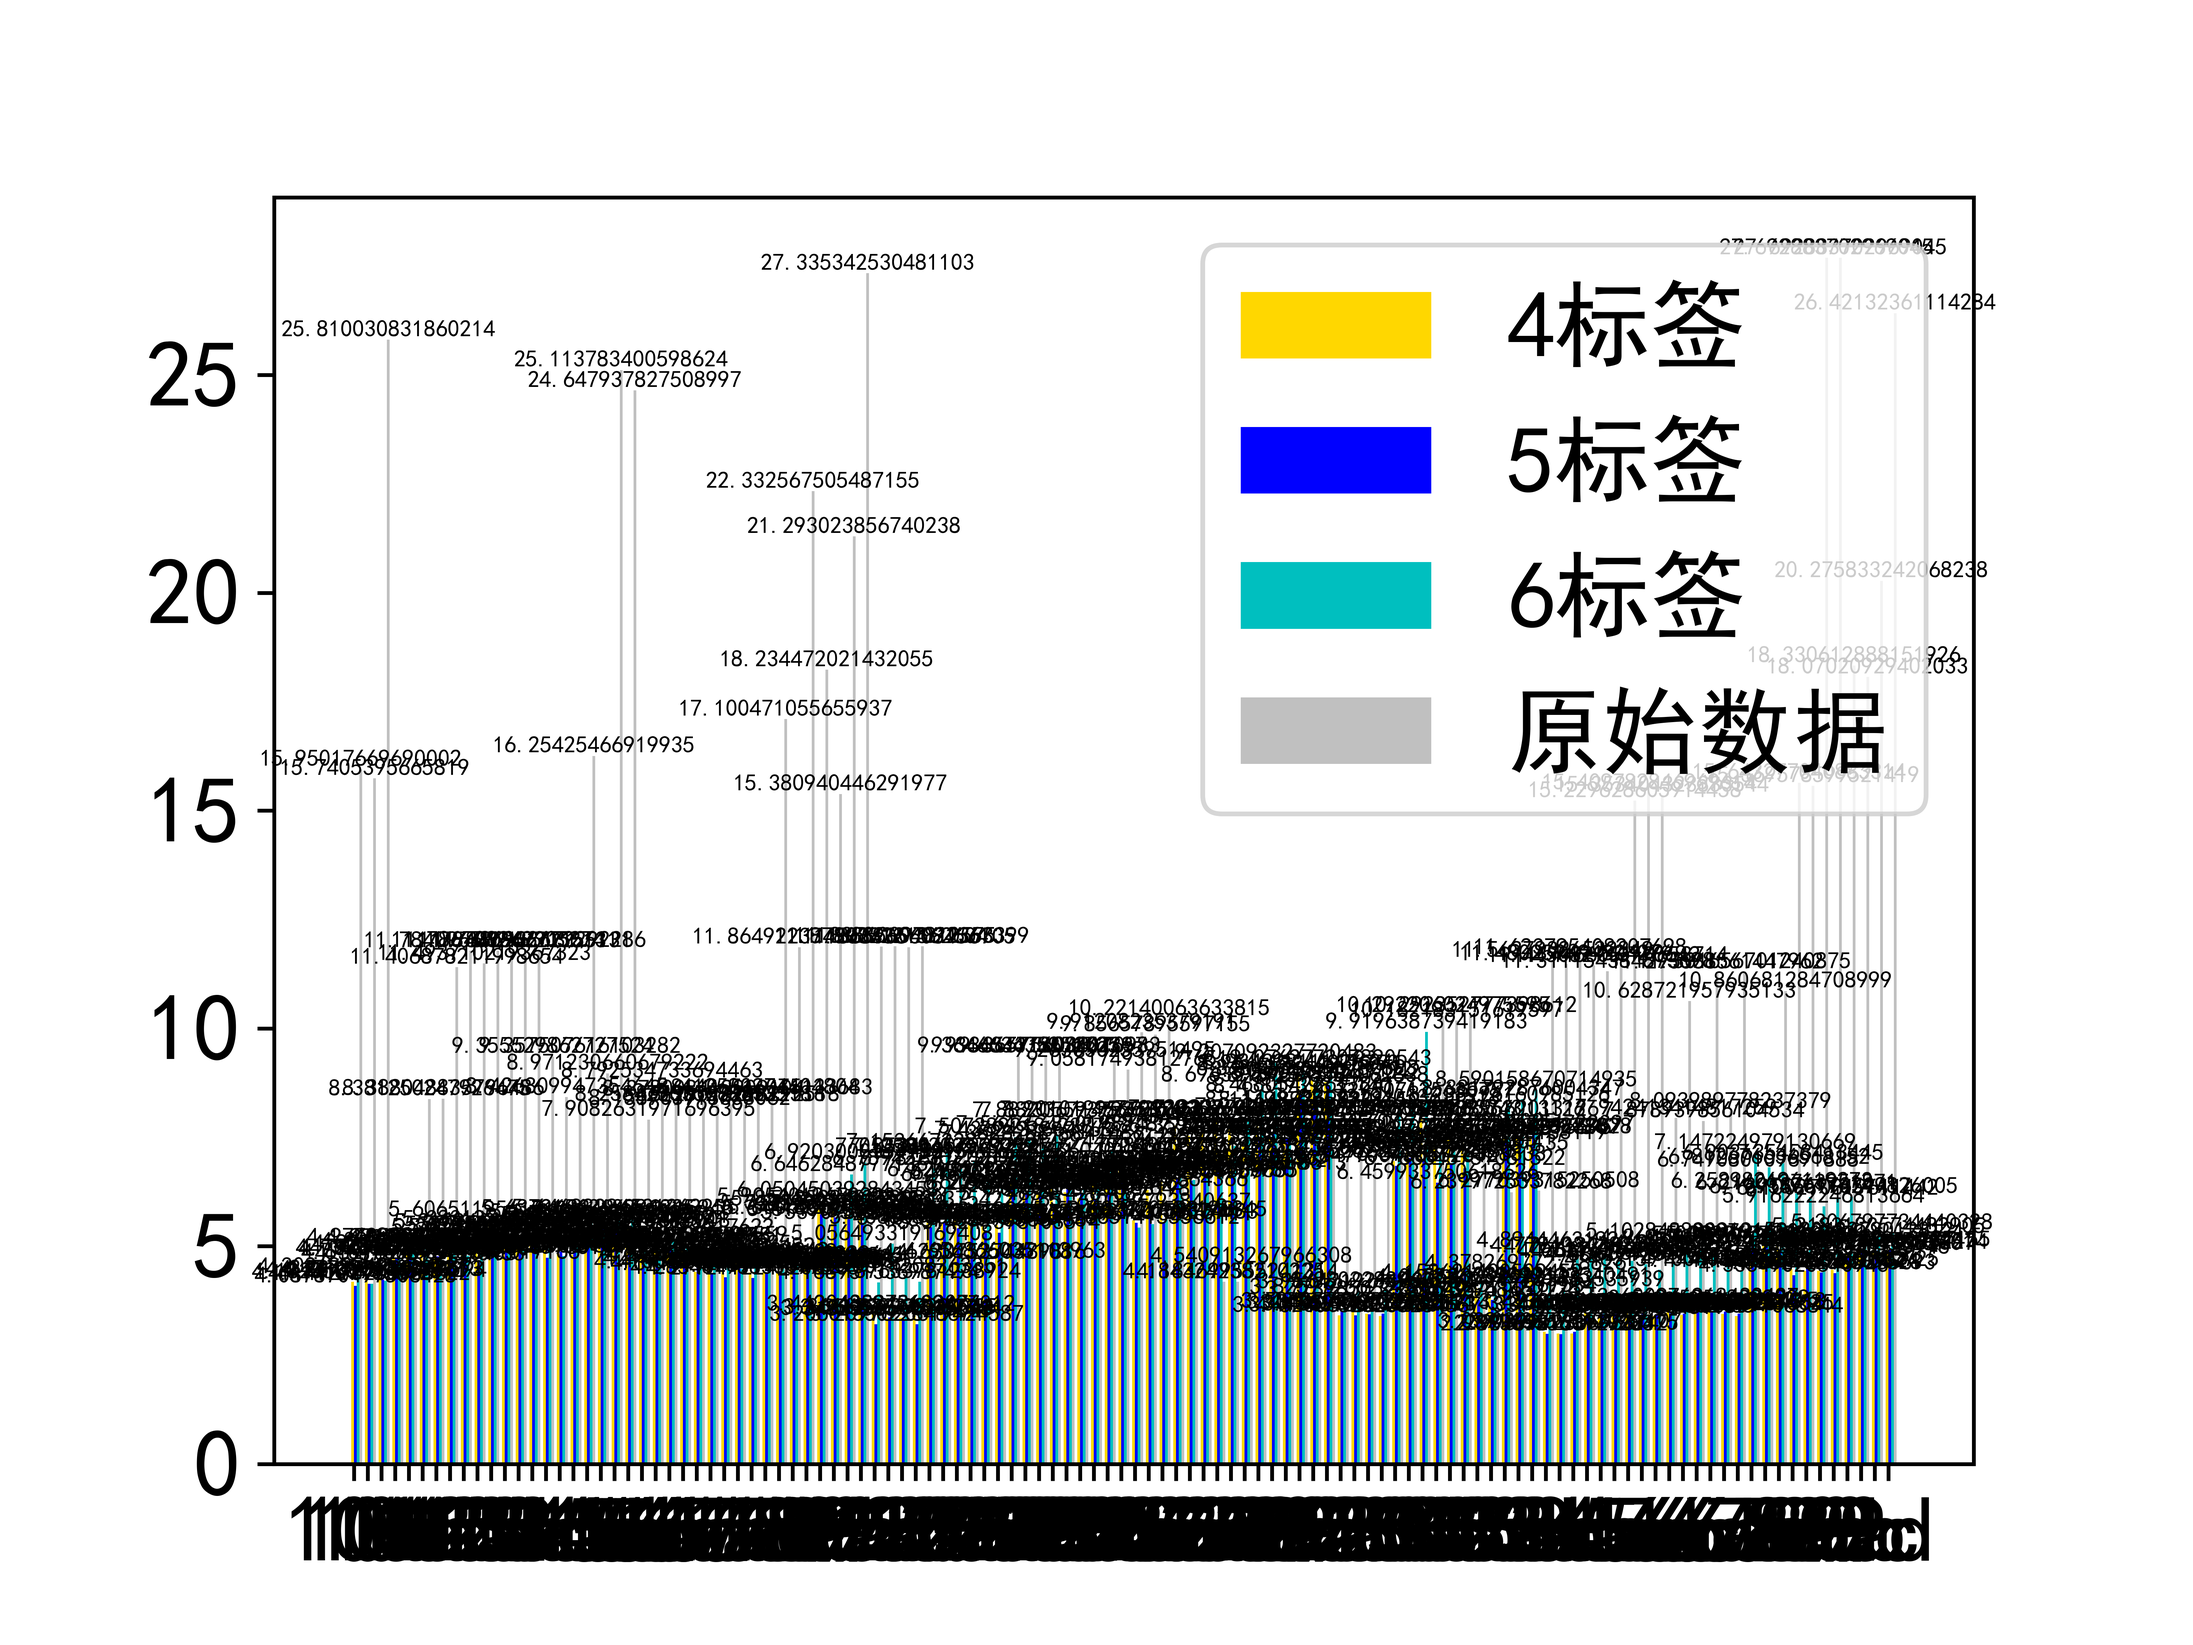
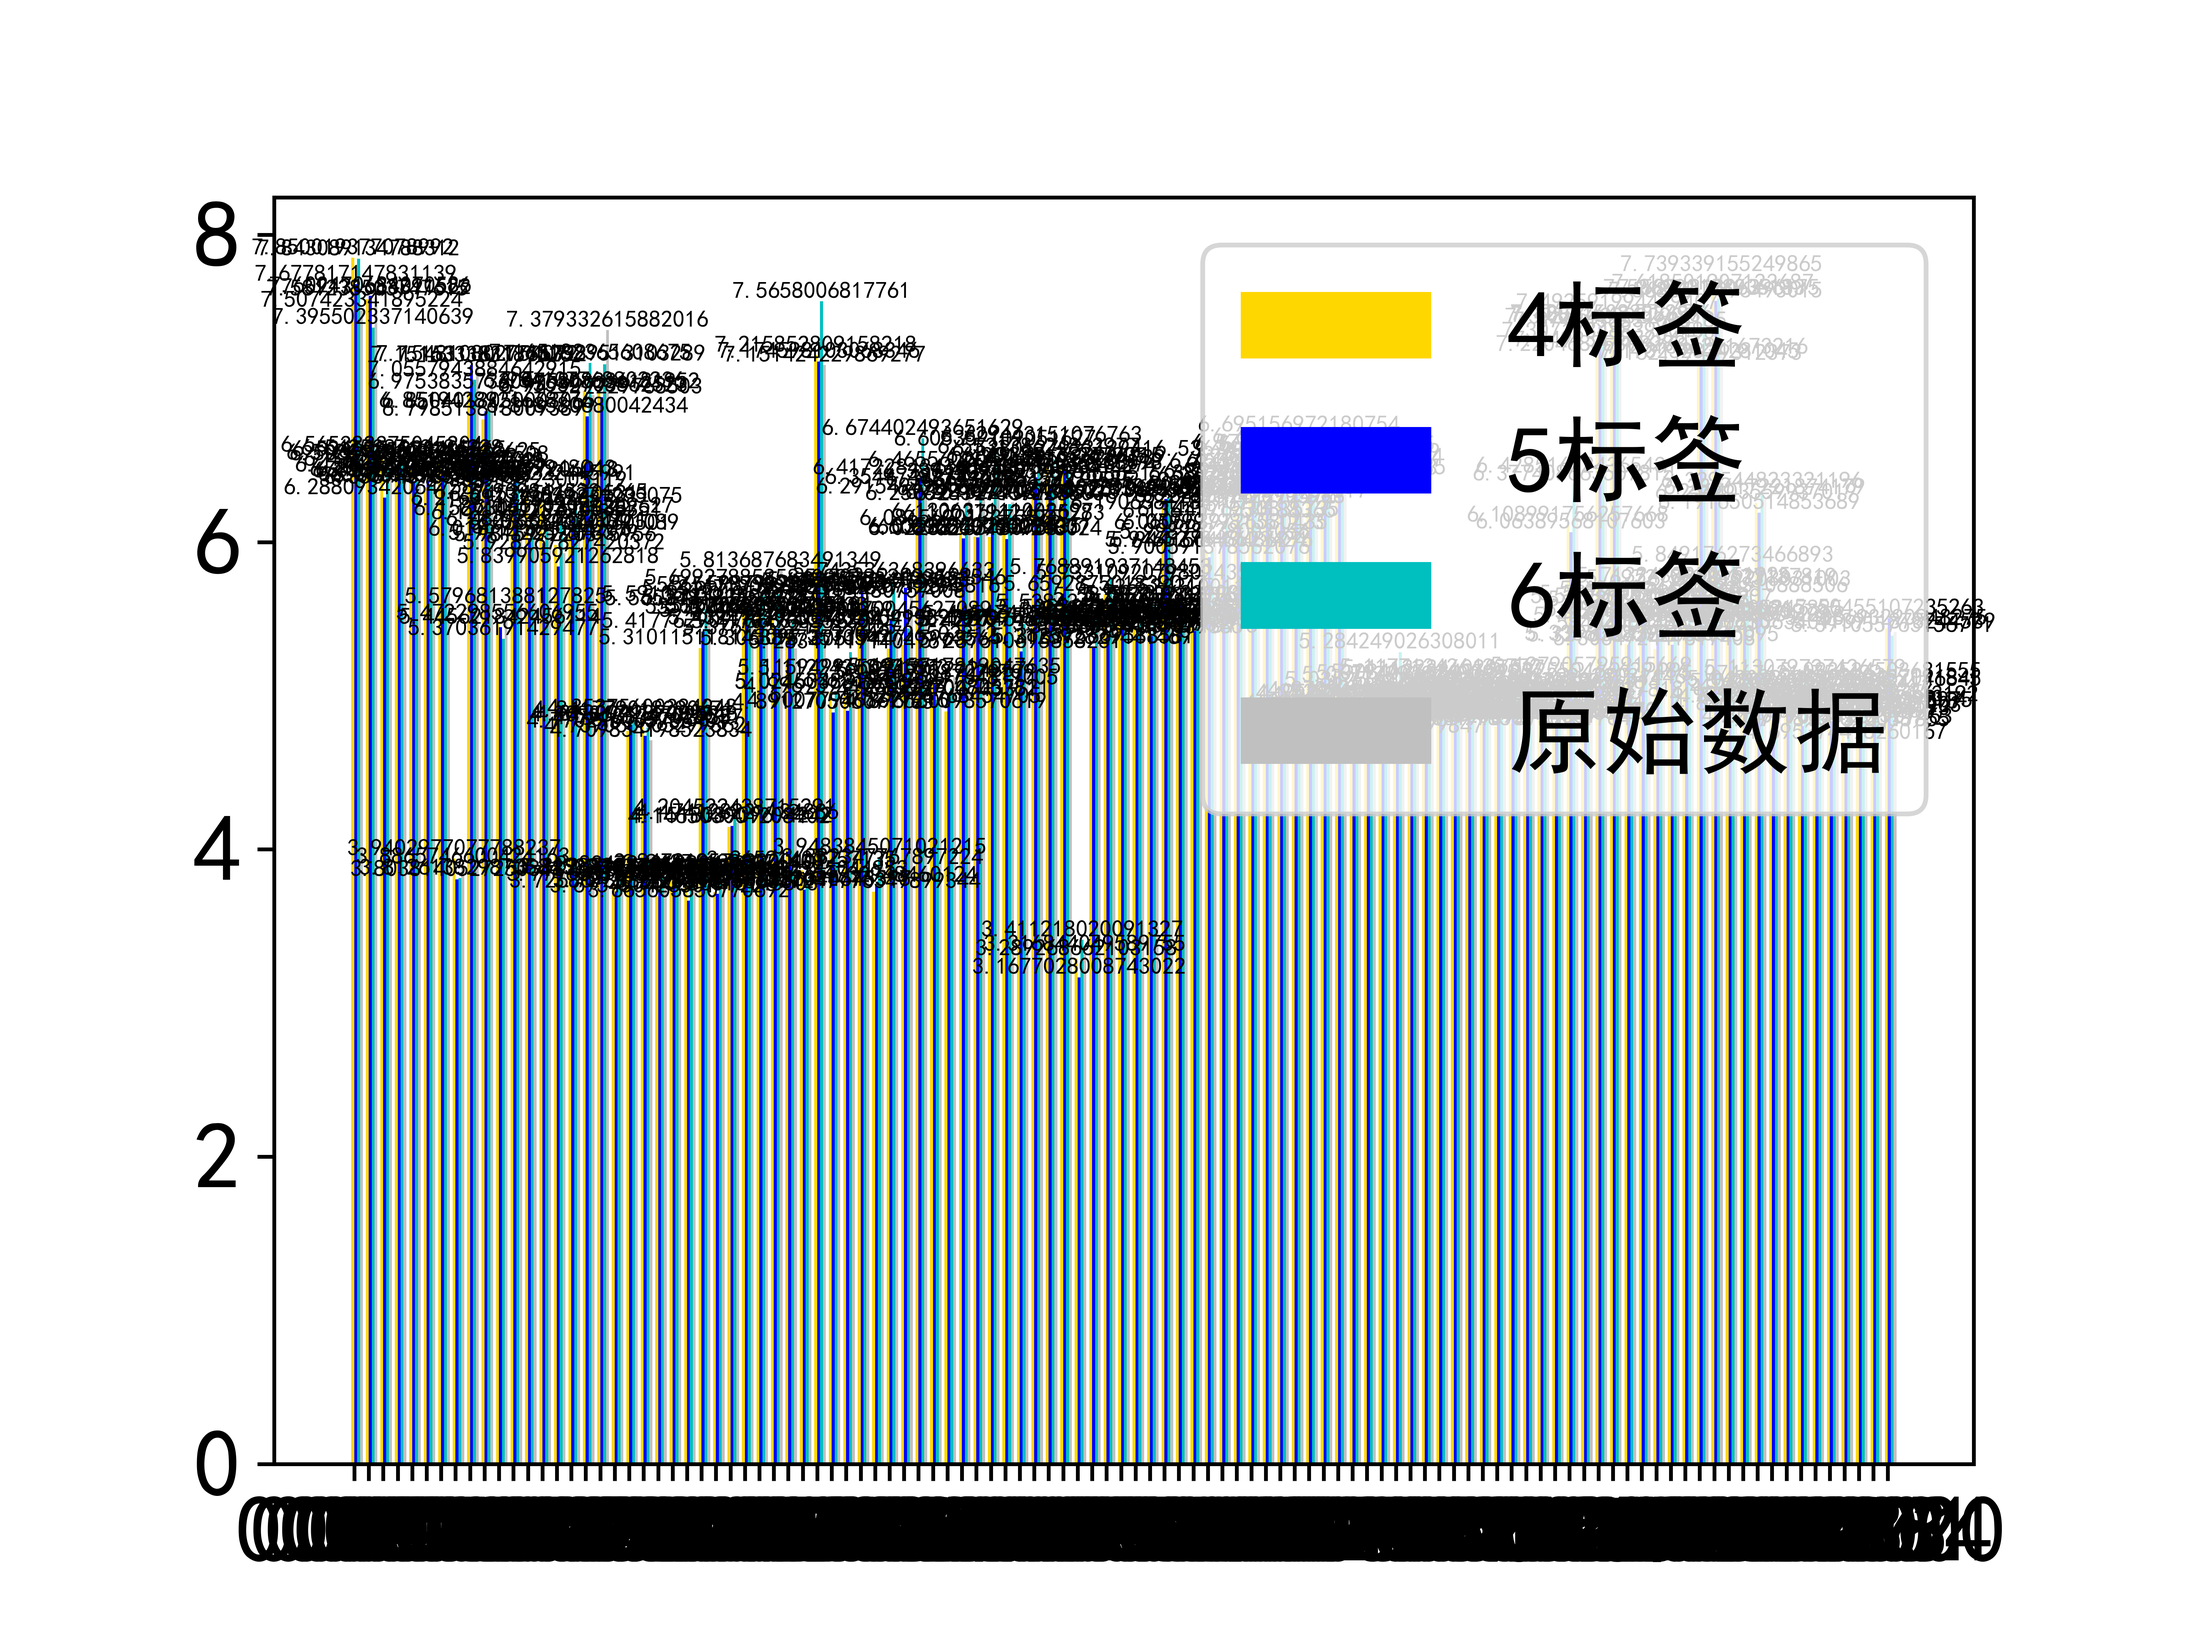
写完了获取生成的新查询的执行时间和原始执行时间的代码(experiment.py),下次就是生成实验的数据图了

diff --git a/AlphaJoin_1/CompareImage.py b/AlphaJoin_1/CompareImage.py
@@ -4,10 +4,10 @@ import numpy as np
 import random
 import math
 
-f_original = open("runtime_laptop")
-f_k4 = open("runtime_k4_1")
-f_k6 = open("runtime_k6_1_new")
-f_k5 = open("runtime_k5_1_new")
+f_original = open("result_original")
+f_k4 = open("result_k4")
+f_k6 = open("result_k6")
+f_k5 = open("result_k5")
 
 line_original = f_original.readlines()
 line_k4 = f_k4.readlines()
@@ -30,15 +30,21 @@ runtime_k6 = []
 runtime_k5 = []
 flag = 0
 
+hint_length = set()
+
 for line in line_original:
     # if flag == 20:
     #     break
     # flag = flag + 1
-    queryname.append(line.split(",")[0].strip())
+    # hint_length.add(len(line.split(",")[1].strip()))
+    if len(line.split(",")[1].strip()) < 80:
+        queryname.append(line.split(",")[0].strip())
 
 
+print(len(queryname))
 
-# queryname = random.sample(queryname, 20)
+
+# queryname = random.sample(queryname, 50)
 
 
 for line in line_original:
@@ -46,7 +52,9 @@ for line in line_original:
     #     break
     # flag = flag + 1
     # queryname.append(line.split(",")[0].strip())
-    if line.split(",")[0].strip() in queryname:
+    if line.split(",")[0].strip() in queryname and len(line.split(",")[1].strip()) < 80:
+        print(line.split(",")[0].strip() + ":", end=" ")
+        print(len(line.split(",")[1].strip()))
         # runtime_original.append(float(line.split(",")[2].strip()))
         runtime_original_dict[line.split(",")[0].strip()] = float(line.split(",")[2].strip())
 
@@ -56,7 +64,7 @@ for line in line_k4:
     # if flag == 20:
     #     break
     # flag = flag + 1
-    if line.split(",")[0].strip() in queryname:
+    if line.split(",")[0].strip() in queryname and len(line.split(",")[1].strip()) < 80:
         # runtime_k4_3.append(float(line.split(",")[2].strip()))
         runtime_k4_dict[line.split(",")[0].strip()] = float(line.split(",")[2].strip())
 
@@ -64,7 +72,7 @@ for line in line_k5:
     # if flag == 20:
     #     break
     # flag = flag + 1
-    if line.split(",")[0].strip() in queryname:
+    if line.split(",")[0].strip() in queryname and len(line.split(",")[1].strip()) < 80:
         # runtime_k4_3.append(float(line.split(",")[2].strip()))
         runtime_k5_dict[line.split(",")[0].strip()] = float(line.split(",")[2].strip())
 
@@ -72,7 +80,7 @@ for line in line_k6:
     # if flag == 20:
     #     break
     # flag = flag + 1
-    if line.split(",")[0].strip() in queryname:
+    if line.split(",")[0].strip() in queryname and len(line.split(",")[1].strip()) < 80:
         # runtime_k4_3.append(float(line.split(",")[2].strip()))
         runtime_k6_dict[line.split(",")[0].strip()] = float(line.split(",")[2].strip())
 
@@ -117,12 +125,46 @@ for i in range(len(runtime_k5)):
         print(queryname[i], end=' ')
 
 print(len(queryname))
+print(sum(runtime_original))
 print("4标签:", correct1, '\t', correct1/len(queryname), '\t', sum(runtime_k4))
 print("6标签:", correct2, '\t', correct2/len(queryname), '\t', sum(runtime_k6))
 print("5标签:", correct3, '\t', correct3/len(queryname), '\t', sum(runtime_k5))
 # print(queryname)
 # print(runtime_original)
 # print(runtime_k4_3)
+
+
+correct = [correct1, correct3, correct2]
+correct_rate = [correct1/len(queryname), correct3/len(queryname), correct2/len(queryname)]
+
+x = ["k4", "k5", "k6"]
+y1 = correct
+y2 = correct_rate
+
+# 创建一个图形
+fig, ax1 = plt.subplots()
+
+# 绘制第一个数组的直方图
+color = 'tab:blue'
+bar_width = 0.2  # 设置条形图的宽度
+ax1.set_xlabel('Number of tags')
+ax1.set_ylabel('Correct', color=color)
+ax1.bar(x, correct, color=color, alpha=0.5, width=bar_width)
+ax1.tick_params(axis='y', labelcolor=color)
+
+# 创建一个共享x轴的第二个y轴
+ax2 = ax1.twinx()
+color = 'tab:orange'
+ax2.set_ylabel('Correct Rate', color=color)
+ax2.plot(x, correct_rate, color=color, marker='o')
+ax2.tick_params(axis='y', labelcolor=color)
+
+# 添加标题
+plt.title('Correct and Correct Rate')
+
+# 显示图形
+plt.show()
+
 
 
 # 参数设置

diff --git a/AlphaJoin_1/pgsql_connection_test.py b/AlphaJoin_1/pgsql_connection_test.py
@@ -2,21 +2,24 @@ import psycopg2
 
 conn = psycopg2.connect(database="imdb", user="postgres", password="postgres", host="localhost", port="5432")
 cur = conn.cursor()
-cur.execute("SET join_collapse_limit TO 1;")
-cur.execute("explain "+'''SELECT MIN(chn.name) AS uncredited_voiced_character,
-       MIN(t.title) AS russian_movie
-FROM (company_name AS cn
-JOIN movie_companies AS mc ON cn.id = mc.company_id)
-JOIN (role_type AS rt
-JOIN cast_info AS ci ON ci.role_id = rt.id
-     AND ci.note LIKE '%(voice)%'
-     AND ci.note LIKE '%(uncredited)%')
-ON ci.movie_id = mc.movie_id
-JOIN char_name AS chn ON chn.id = ci.person_role_id
-JOIN title AS t ON t.id = ci.movie_id
-LEFT JOIN company_type AS ct ON mc.company_type_id = ct.id
-WHERE cn.country_code = '[ru]'
-AND t.production_year > 2005;
+# cur.execute("SET join_collapse_limit TO 1;")
+cur.execute("explain "+'''SELECT MIN(n.name) AS voicing_actress,
+       MIN(t.title) AS jap_engl_voiced_movie
+FROM company_name AS cn
+JOIN movie_info AS mi ON cn.country_code = 'us' AND mi.info IS NOT NULL
+JOIN title AS t ON mi.movie_id = t.id AND t.production_year > 2006
+JOIN movie_companies AS mc ON t.id = mc.movie_id AND cn.id = mc.company_id
+JOIN cast_info AS ci ON t.id = ci.movie_id
+JOIN role_type AS rt ON ci.role_id = rt.id AND rt.role = 'actress'
+JOIN char_name AS chn ON ci.person_role_id = chn.id
+JOIN name AS n ON ci.person_id = n.id AND n.gender = 'f' AND n.name LIKE '%Atalya%'
+JOIN aka_name AS an ON ci.person_id = an.person_id
+JOIN info_type AS it ON mi.info_type_id = it.id AND it.info = 'release dates'
+WHERE (mi.info LIKE 'Japan:% 200%' OR mi.info LIKE 'USA:% 200%')
+  AND ci.note IN ('(executive producer)', '(uncredited)', '(voice)', '(as Atalya) (credit only)')
+GROUP BY rt.id;
+
+
 ''')
 rows = cur.fetchall()
 # print(rows)

diff --git a/AlphaJoin_1/mcts.py b/AlphaJoin_1/mcts.py
@@ -6,10 +6,10 @@ from copy import deepcopy
 import numpy as np
 from models import ValueNet
 import torch
-model_path = './saved_models/supervised_best_op_0528.pt'
+model_path = './saved_models/supervised_best_op_0615_k4_1.pt'
 
 # predictionNet = ValueNet(856+3, 24)
-predictionNet = ValueNet(1616, 24)
+predictionNet = ValueNet(1616, 16)
 predictionNet.load_state_dict(torch.load(model_path, map_location=lambda storage, loc: storage))
 predictionNet.eval()
 
@@ -20,7 +20,7 @@ def getReward(state):
         predictionRuntime = predictionNet(inputState)  # 预测完整连接顺序得到的标签
     prediction = predictionRuntime.detach().cpu().numpy()
     maxindex = np.argmax(prediction)
-    reward = (5 - maxindex/4) / 5.0
+    reward = (4 - maxindex/4) / 4.0
     return reward
 
 

diff --git a/AlphaJoin_1/8.findBestPlan.py b/AlphaJoin_1/8.findBestPlan.py
@@ -137,6 +137,8 @@ def decode(currentState, tableList):
 
 
 def findBestPlan():
+    f = open("result_k4", "w+")
+
     queryNameList = os.listdir(tablenamedir)
     queryNameList.sort()
     searchFactor = 1
@@ -180,6 +182,10 @@ def findBestPlan():
         # Decode selected results
         hint = decode(currentState, tableList)
         print(queryName, ",", hint, ",%.3f" % (elapsed), ",", operator)
+        f.write(queryName+","+hint+",%.3f" % (elapsed)+","+operator)
+        f.write('\n')
+
+f.close()
 
 if __name__ == '__main__':
     findBestPlan()
